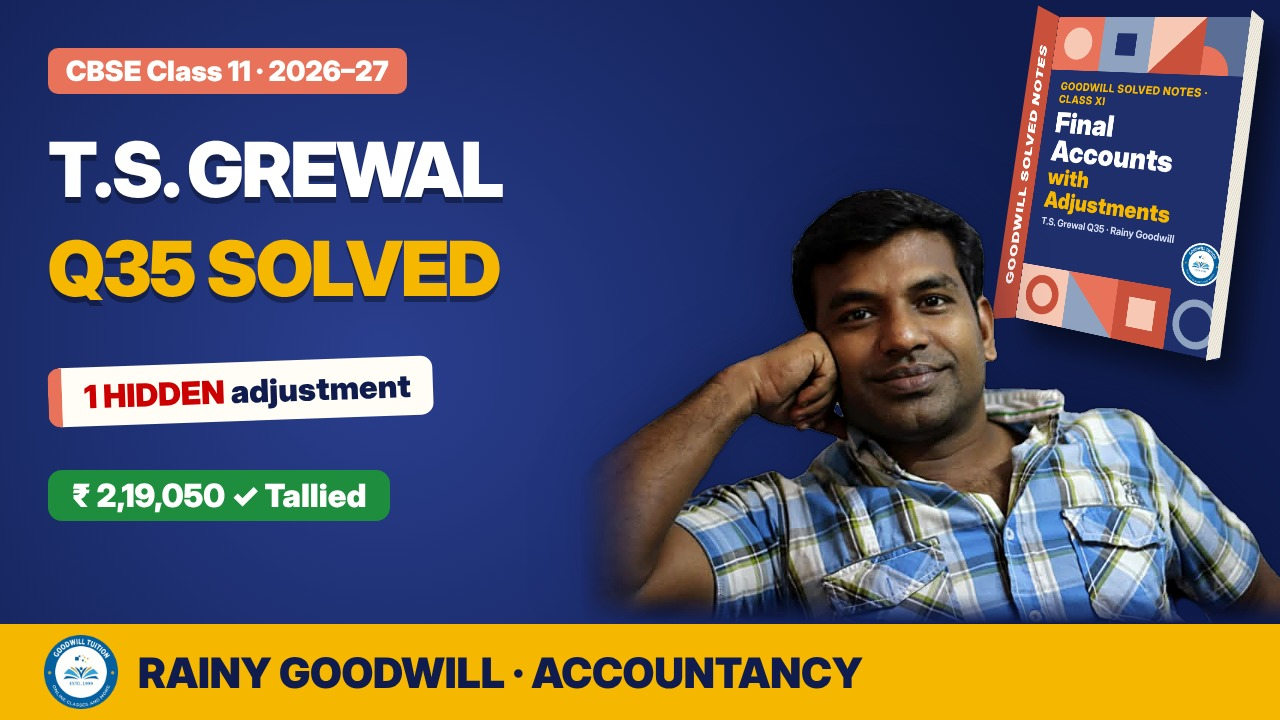
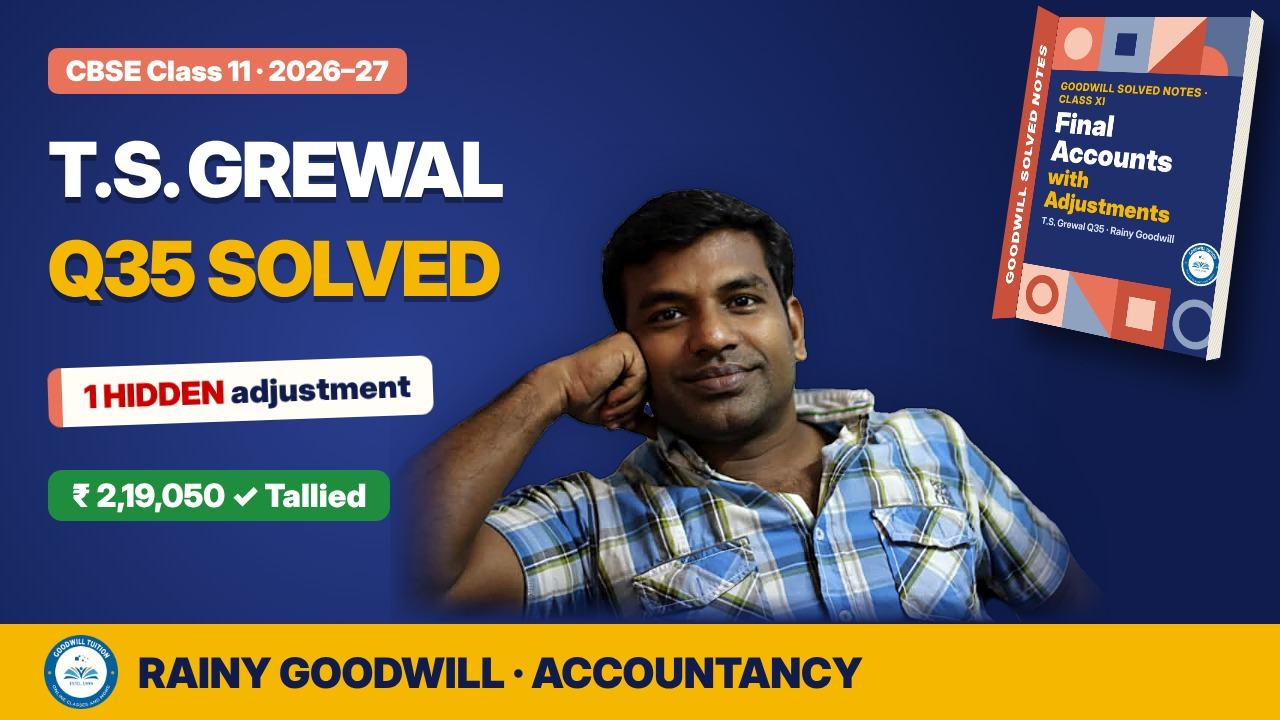
Q35 thumbnail: photo moved left, nearly centred, right edge faded
Claude-Session: https://claude.ai/code/session_01LWtYoH4nJJDTo8ix7JMWhZ

Changed region(s): [[0.3125, 0.2444, 1.0, 0.8861], [0.1875, 0.5194, 0.3125, 0.55]]

diff --git a/videos/tsg-ch19-q35/upload/thumbnail_photo.html b/videos/tsg-ch19-q35/upload/thumbnail_photo.html
@@ -28,7 +28,7 @@ body { width: 1280px; height: 720px; overflow: hidden; font-family: "Inter Displ
 .cov .ti2 { font-size: 40px; font-weight: 900; color: #F5B700; line-height: 1.05; }
 .cov .sm { font-size: 18px; font-weight: 700; margin-top: 8px; color: #D7DEF5; }
 .logo { position: absolute; right: 18px; bottom: 112px; width: 70px; height: 70px; border-radius: 50%; background: #fff; padding: 3px; }
-.me { position: absolute; right: -20px; bottom: 96px; height: 480px; z-index: 3; filter: drop-shadow(0 0 28px rgba(10,20,60,0.55)); }
+.me { position: absolute; right: 170px; bottom: 96px; height: 480px; z-index: 3; -webkit-mask-image: linear-gradient(to right, #000 86%, transparent 100%); mask-image: linear-gradient(to right, #000 86%, transparent 100%); filter: drop-shadow(0 0 28px rgba(10,20,60,0.55)); }
 .bar { z-index: 6; }
 </style></head><body>
 <div class="tag">CBSE Class 11 · 2026–27</div>
